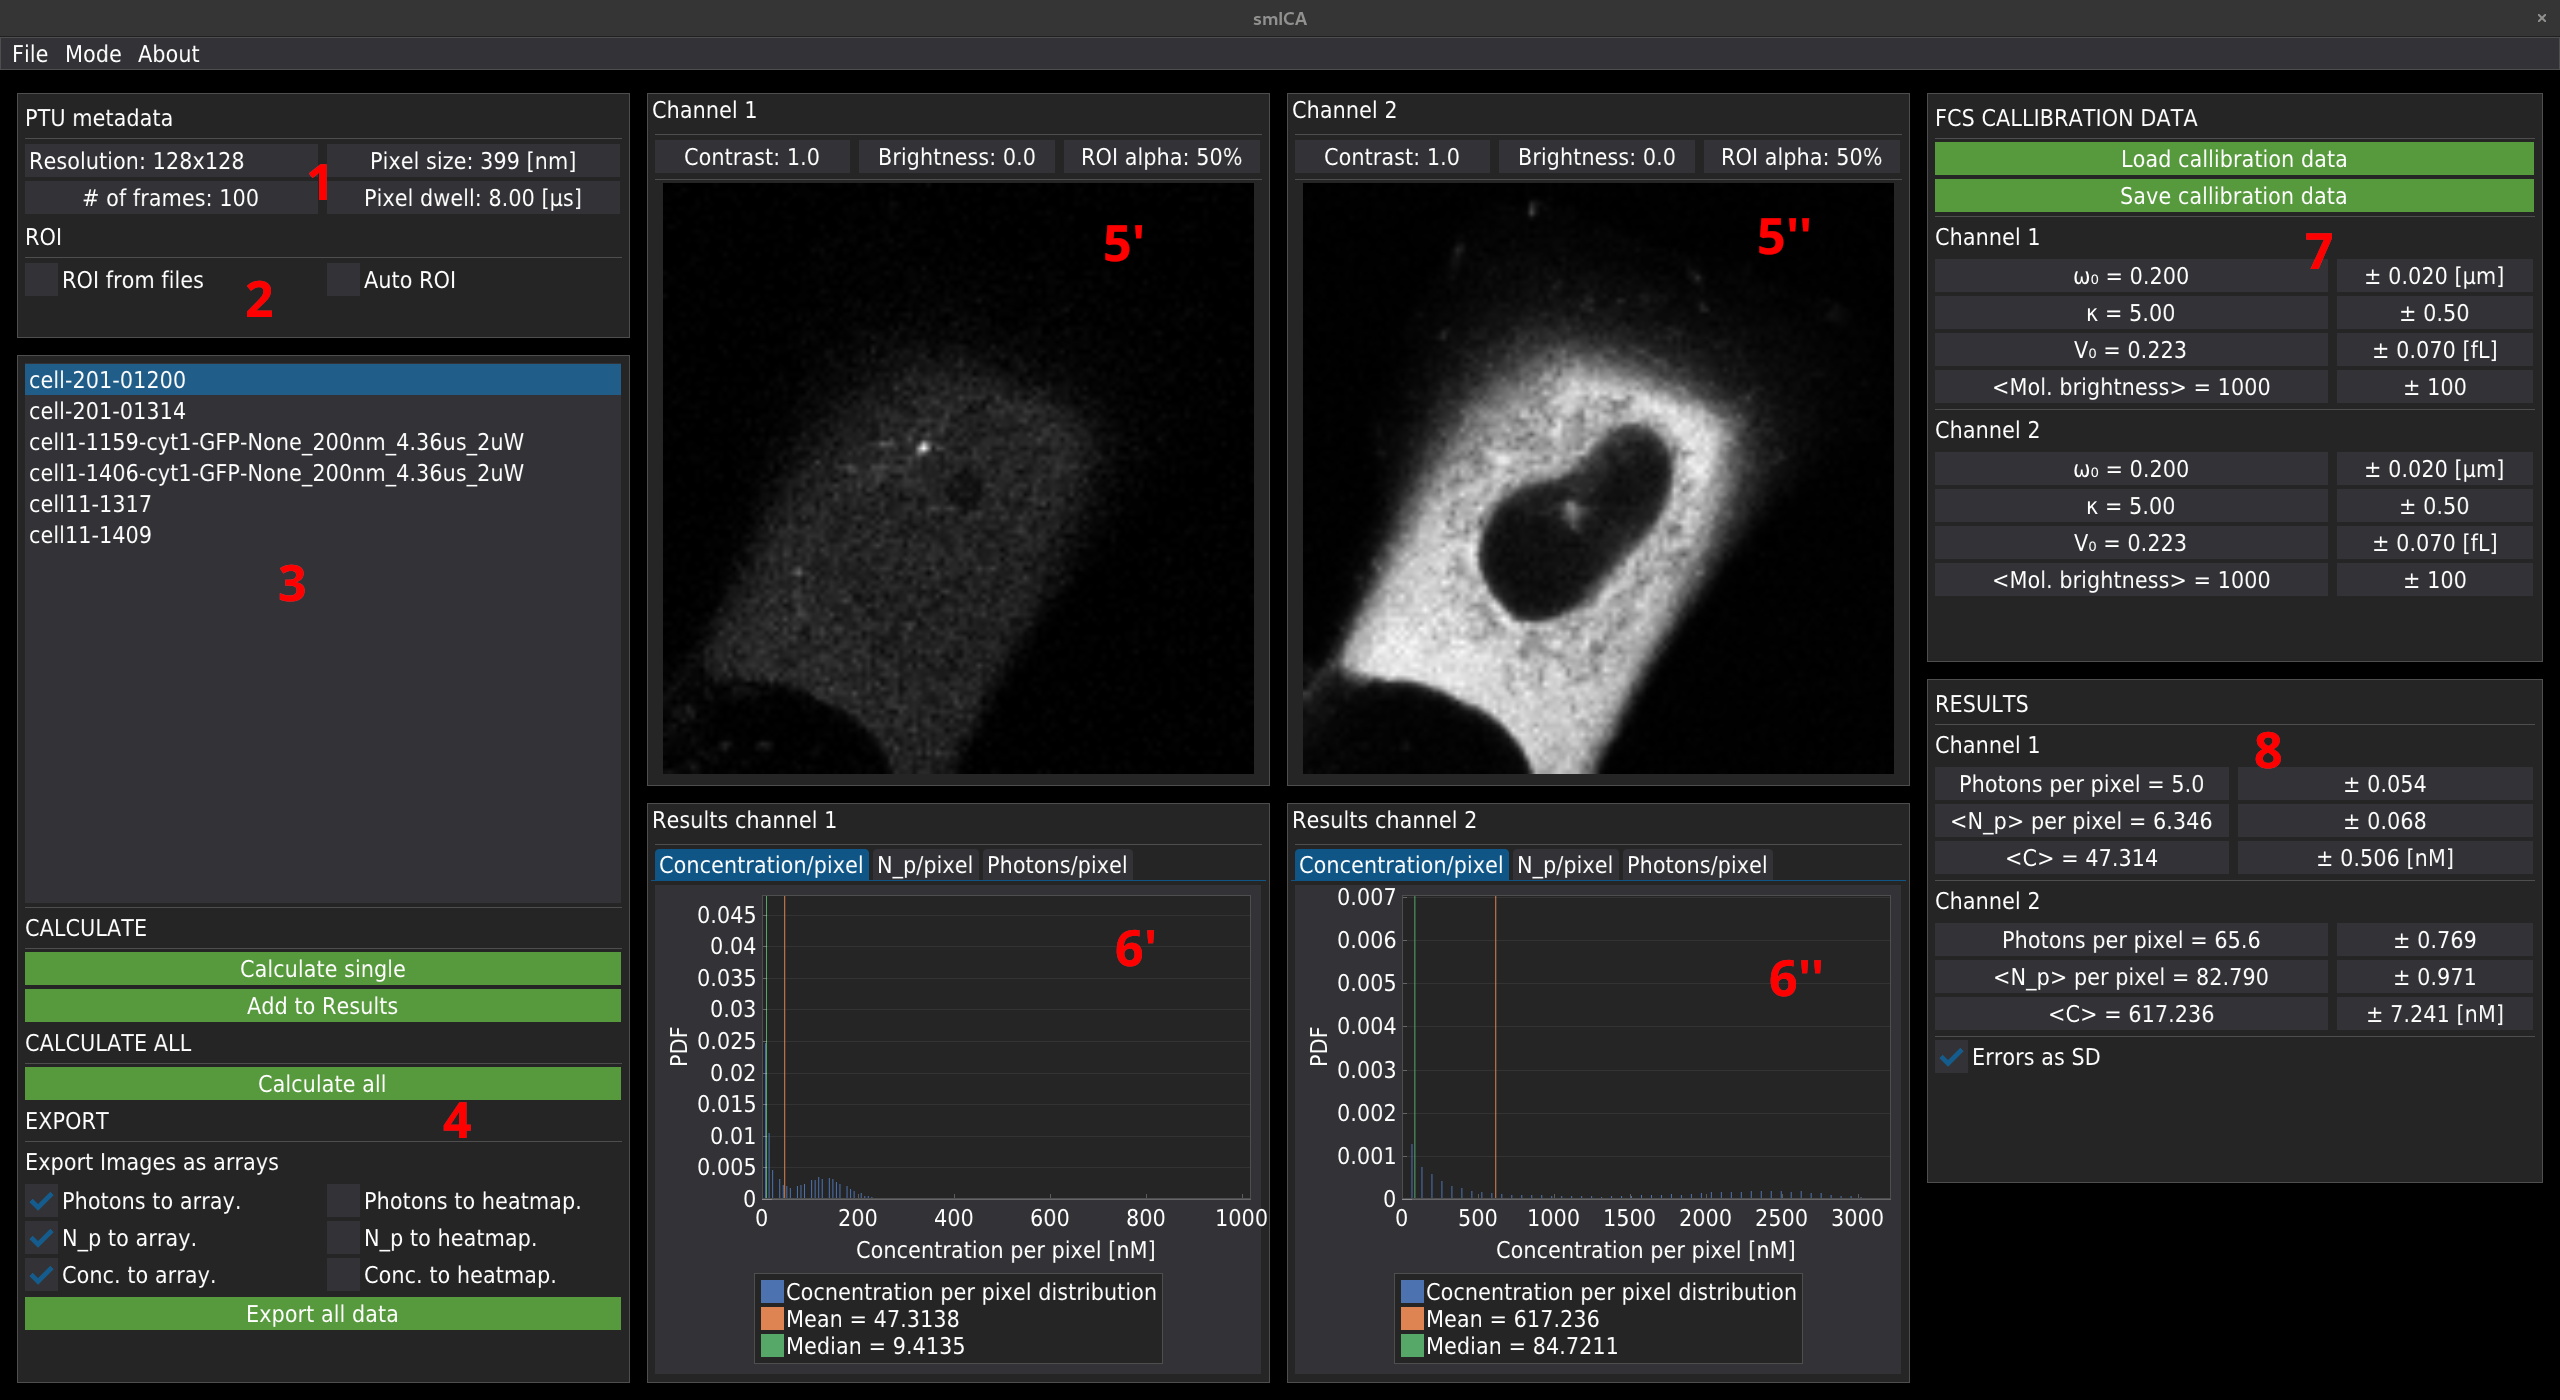
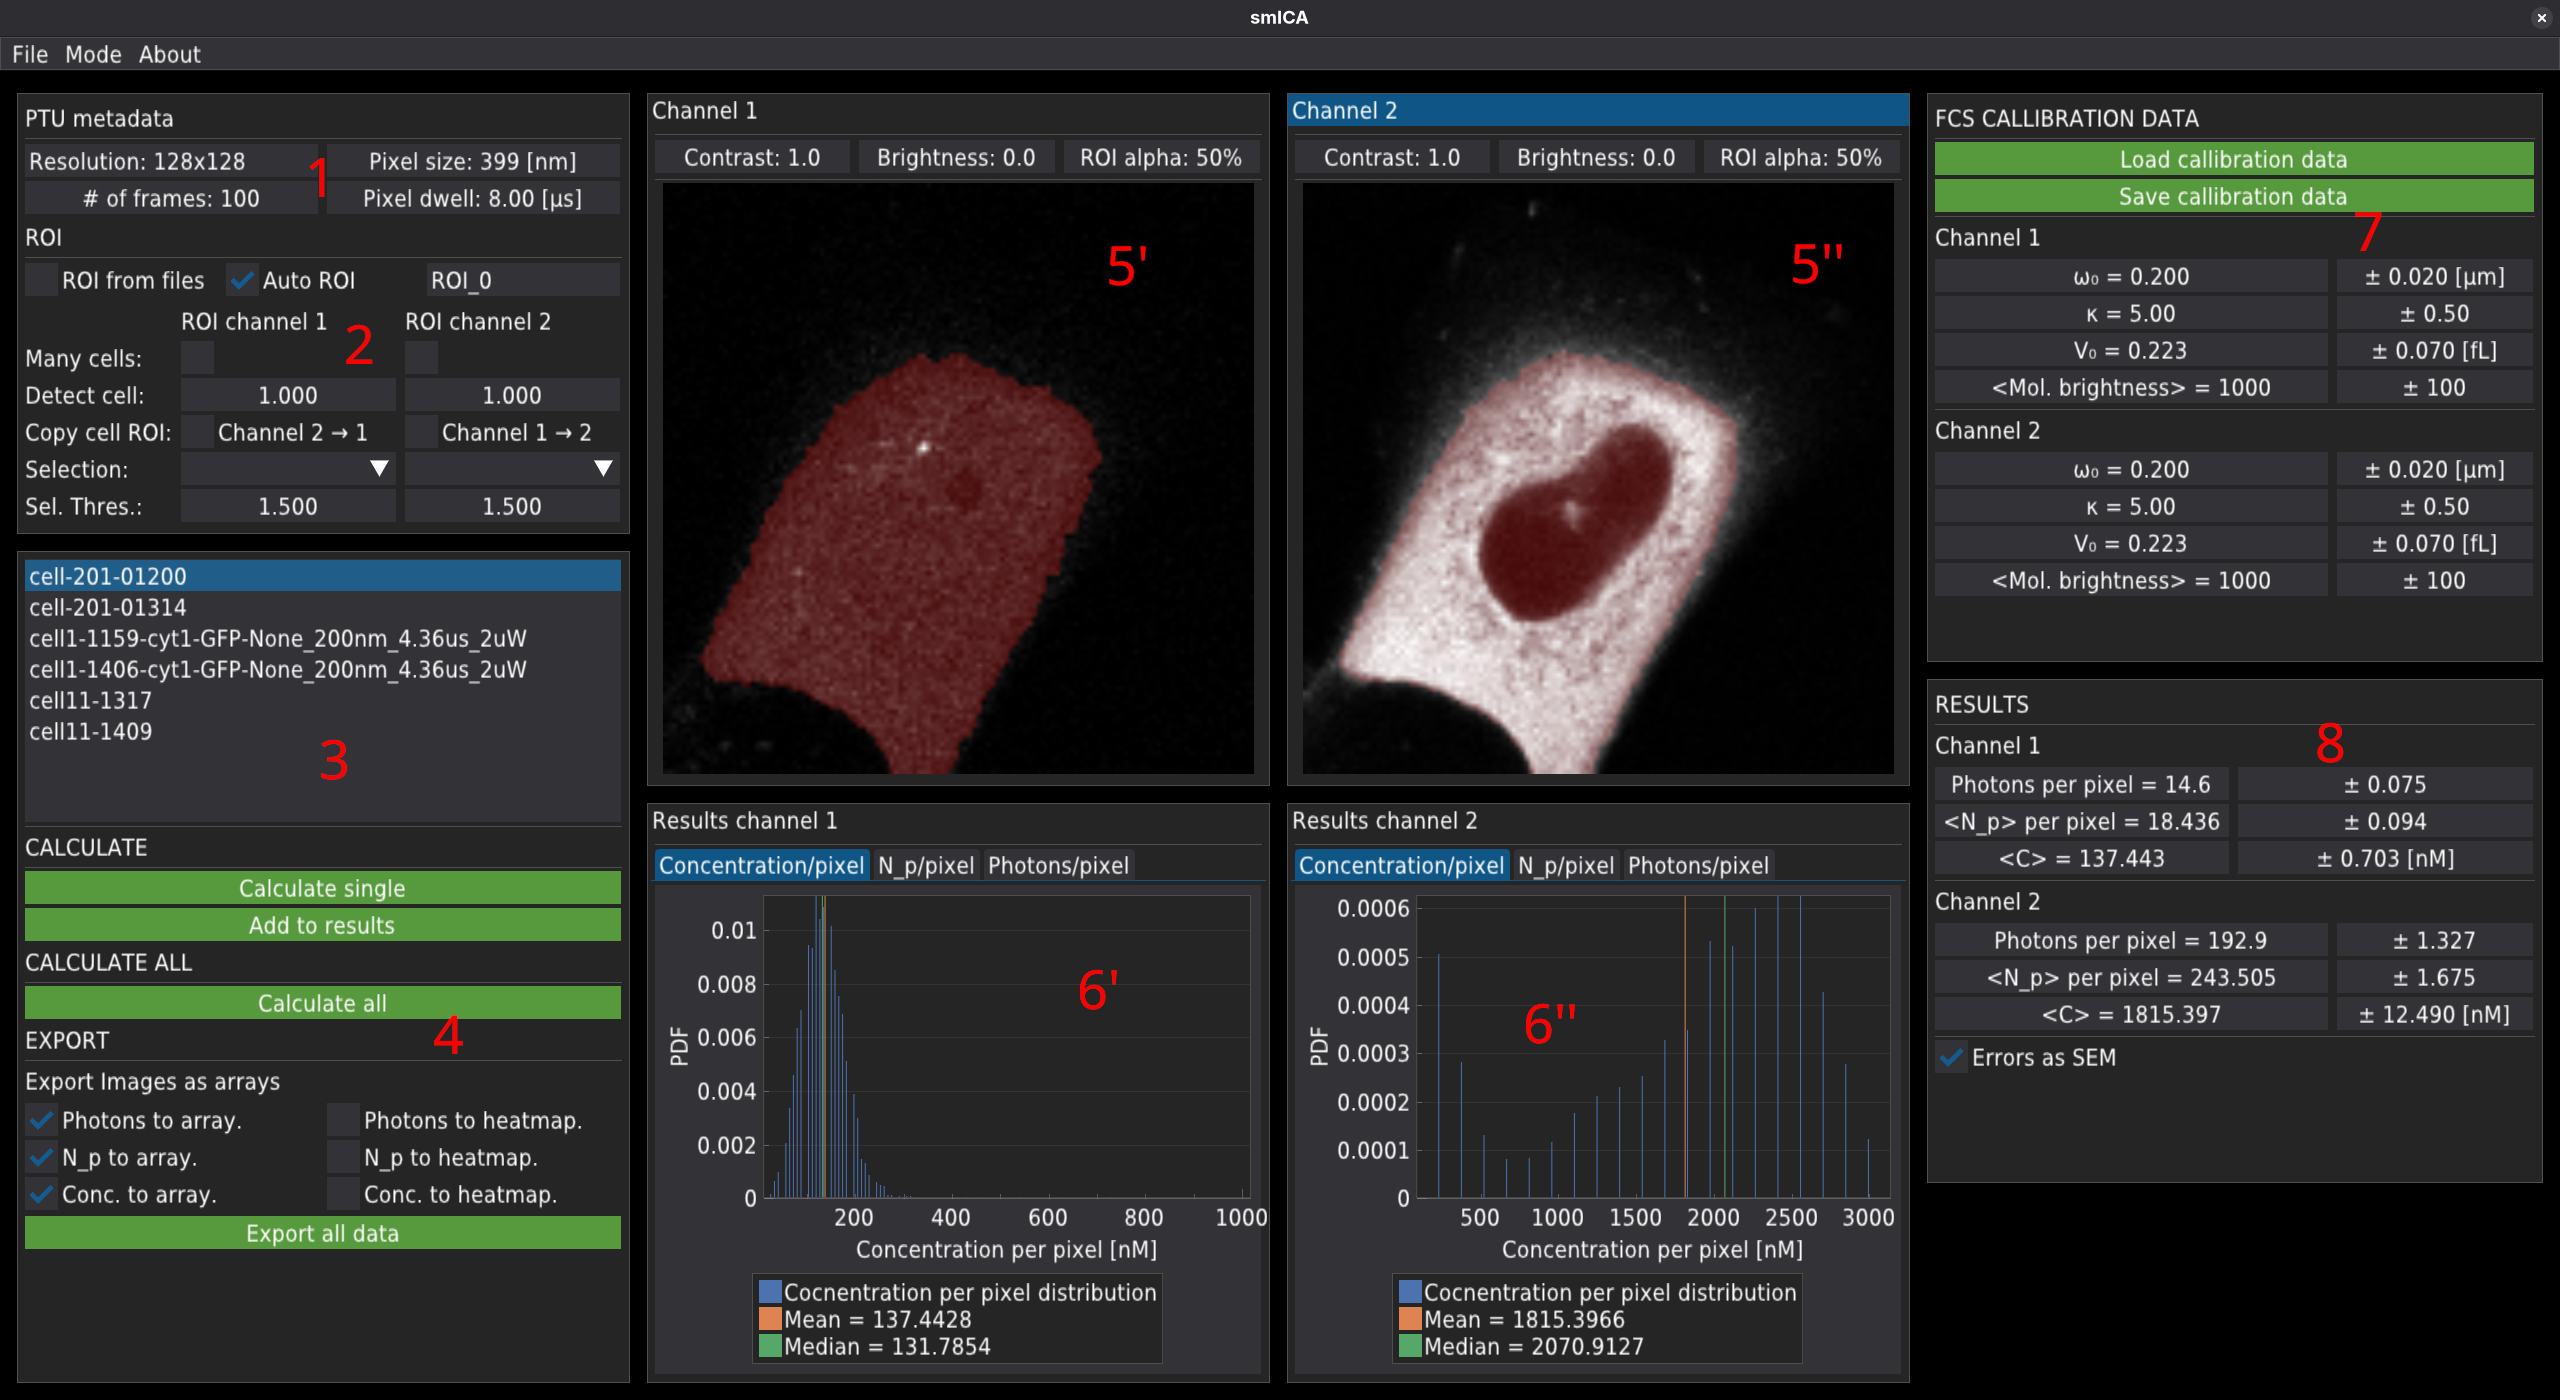
doc/img

diff --git a/src/smICA/Modes/Phot2conc/Phot2conc_layout.py b/src/smICA/Modes/Phot2conc/Phot2conc_layout.py
@@ -1517,9 +1517,9 @@ with dpg.window(label='',
                 dpg.add_text("SD of concentration. Average over entire image/ROI.",
                              tag='single_conc_err_output_ch_2_tooltip_text')
     dpg.add_separator(tag='RESULTS_bott2_sep', show=True)
-    dpg.add_checkbox(label='Errors as SD',
+    dpg.add_checkbox(label='Errors as SEM',
                      tag='Error_type_checkbox',
-                     default_value=False,
+                     default_value=True,
                      callback=mode_cmn.callback_calculate
                      )
 

diff --git a/README.md b/README.md
@@ -270,21 +270,23 @@ Above the images, the user can adjust the visibility of the images by changing c
 **The adjustment** is applied only to the displayed image (channel 1 or channel 2) and **does not affect the results**.
 
 ##### **Selecting the ROI**<a name="ROI"></a>
-The region of interest is a part of the image that will be considered during the image analysis. It is marked in red on the image. The software has two options for ROI definition: "ROI from files" or "Auto ROI".
-![image info](./docs/img/phot/ROIs.png)
+The region of interest is a part of the image that will be considered during the image analysis. It is marked in red on the image. The software has two options for ROI definition: "ROI from files" or "Auto ROI".    
+
+![image info](./docs/img/phot/ROIs.png)    
+
 The "ROI from files" option requires externally created roi files. Examples of externally generated ROI files (generated with ImageJ) are in the samples/ROI folder. The files should be rewritten with the _REWRITE_ROI.py_   [script](#REWRITEROI) before import. Note that (i) each channel's ROI file is created separately. (ii) the filename of the ROI file should have the same structure as the PTU file with an additional string at the end of the filename, according to the example given below.    
 _file_name.ptu_    
 _file_name_roi0_ch_1.dat_ - (ROI file for channel 1)    
 _file_name_roi0_ch_2.dat_ - (ROI file for channel 2)    
-The ROI files will automatically load the given _.ptu_ file. To import the ROI files, the user must specify the folder containing the files by selecting the path using the "Open ROI directory" option from the File menu. It is possible to have many ROI files per _.ptu_ file. The multiple ROI files are identified by numeration in the _roiX_ part of the ROI's file name.
+The ROI files will automatically load the given _.ptu_ file. To import the ROI files, the user must specify the folder containing the files by selecting the path using the "Open ROI directory" option from the File menu. It is possible to have many ROI files per _.ptu_ file. The multiple ROI files are identified by numeration in the _roiX_ part of the ROI's file name.    
+
 ![image info](./docs/img/phot/ROI_folder.png)
 
-<a name="autoroi"></a>The second option for selecting the region of interest is the automatic mode. Selecting the Auto ROI checkbox displays the ROI control panel for both channels, and the ROI on the image as a red field.
+<a name="autoroi"></a>The second option for selecting the region of interest is the automatic mode. Selecting the Auto ROI checkbox displays the ROI control panel for both channels, and the ROI on the image as a red field.    
+
  ![image info](./docs/img/phot/Phot2Conc_autoroi_control.png)
 
-At this moment, the automatic ROI option offers: automatic detection of a single cell, automatic detection of more than one cell and selection of the ROI of interest (clicking on the image), copying ROI between channels, finding dark or bright areas, subtracting dark or bright areas, and finding and subtracting many bright spots.
- ![image info](./docs/img/phot/Phot2Conc_autoroi_detect_mode.png)
-All modes use the OTSU thresholding method. The user can independently adjust the original OTSU threshold by changing the corresponding sliders in each channel.
+At this moment, the automatic ROI option offers: automatic detection of a single cell, automatic detection of more than one cell and selection of the ROI of interest (clicking on the image), copying ROI between channels, finding dark or bright areas, subtracting dark or bright areas, and finding and subtracting many bright spots. All modes use the OTSU thresholding method. The user can independently adjust the original OTSU threshold by changing the corresponding sliders in each channel.
 
 ROI copying between channels is performed only in the "detect cell" mode. Note that when the checkbox is selected, the thresholding levels can be regulated only in the original channel. For example, selecting "Channel 1->2" will copy the ROI from channel 1 to channel 2. 
 
